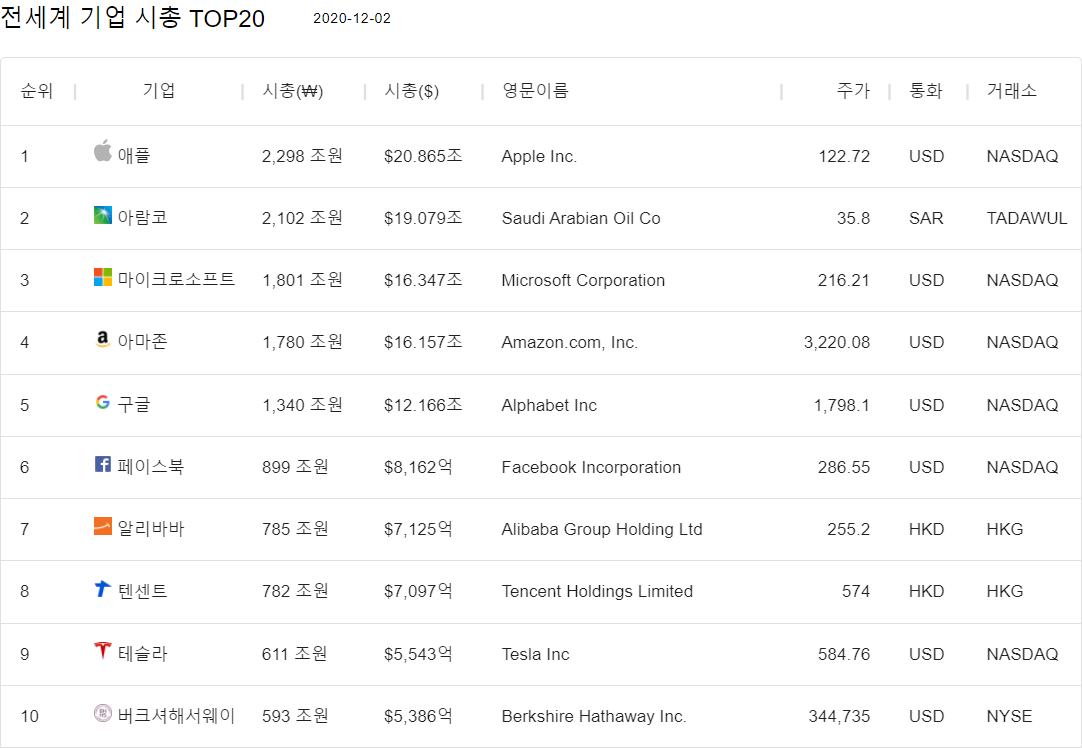
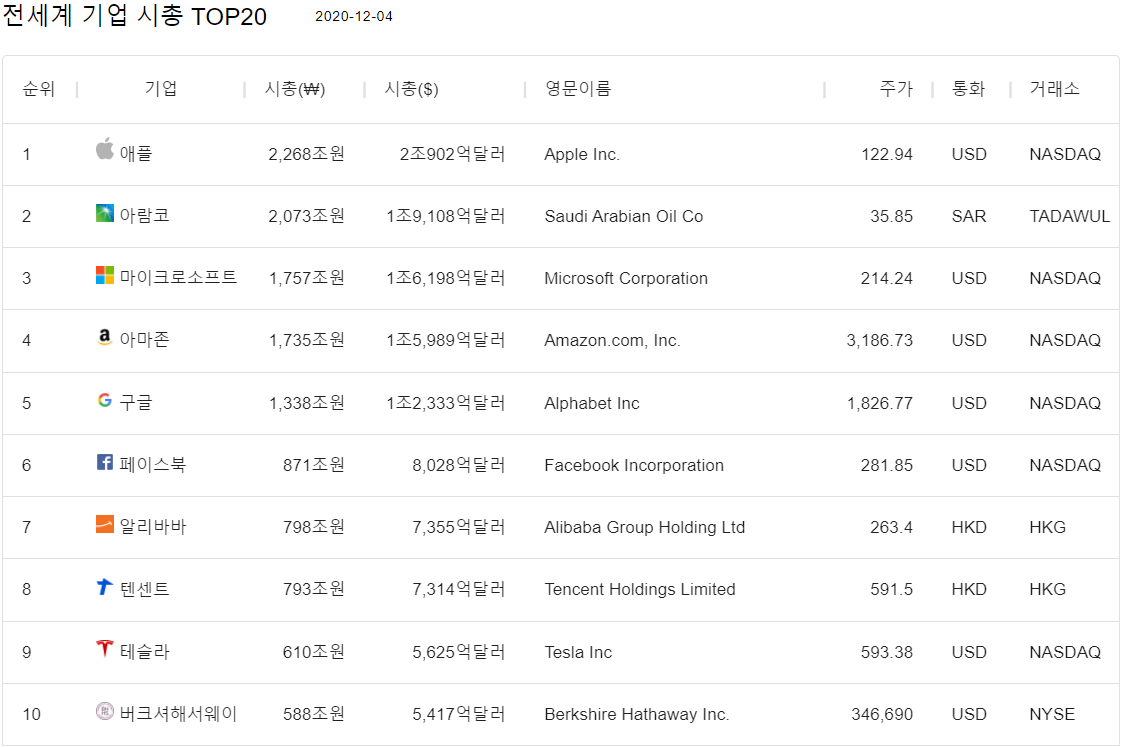
Fix dollar unit

diff --git a/src/components/StockList.tsx b/src/components/StockList.tsx
@@ -14,20 +14,23 @@ const columns: ColDef[] = [
   },
   {
     field: 'marketcap_krw',
-    headerName: '시총(₩)',
+    headerName: '시가총액(₩)',
     description: '실시간 원화 환율 적용',
-    width: 102,
+    width: 112,
+    cellClassName: 'align-right',
     sortable: false,
-    valueFormatter: ({value}) => Number(value).toLocaleString() + ' 조원'
+    valueFormatter: ({value}) => Number(value).toLocaleString() + '조원'
   },
   {
     field: 'marketcap_usd',
-    headerName: '시총($)',
+    headerName: '시가총액($)',
     description: '실시간 달러 환율 적용',
-    width: 98,
+    width: 134,
+    cellClassName: 'align-right',
     sortable: false,
     valueFormatter: ({value}) =>
-      '$' + (Number(value) >= 10000 ? Number(value)/1000 + '조' : Number(value).toLocaleString() + '억')
+      (Number(value) < 10000 ? Number(value).toLocaleString()
+        : Math.floor(Number(value)/10000) + '조' + Number(String(value).substr(1)).toLocaleString()) + '억달러'
   },
   { field: 'company', headerName: '영문이름', width: 250 },
   { field: 'price',
